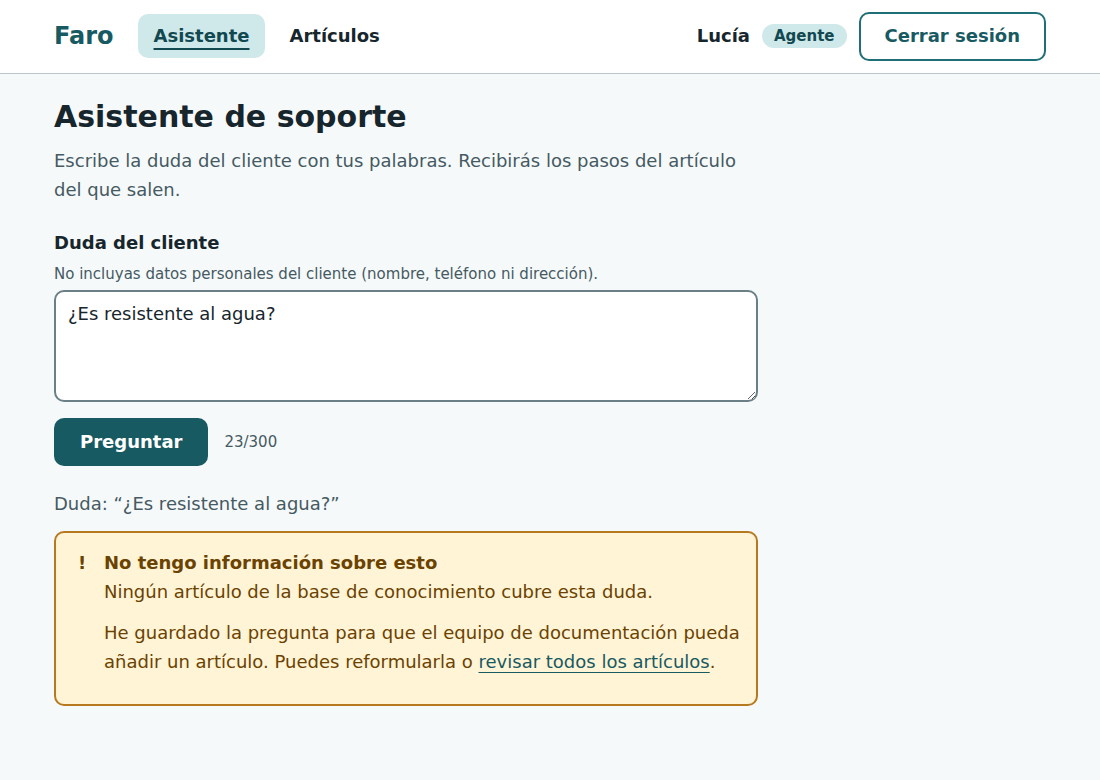
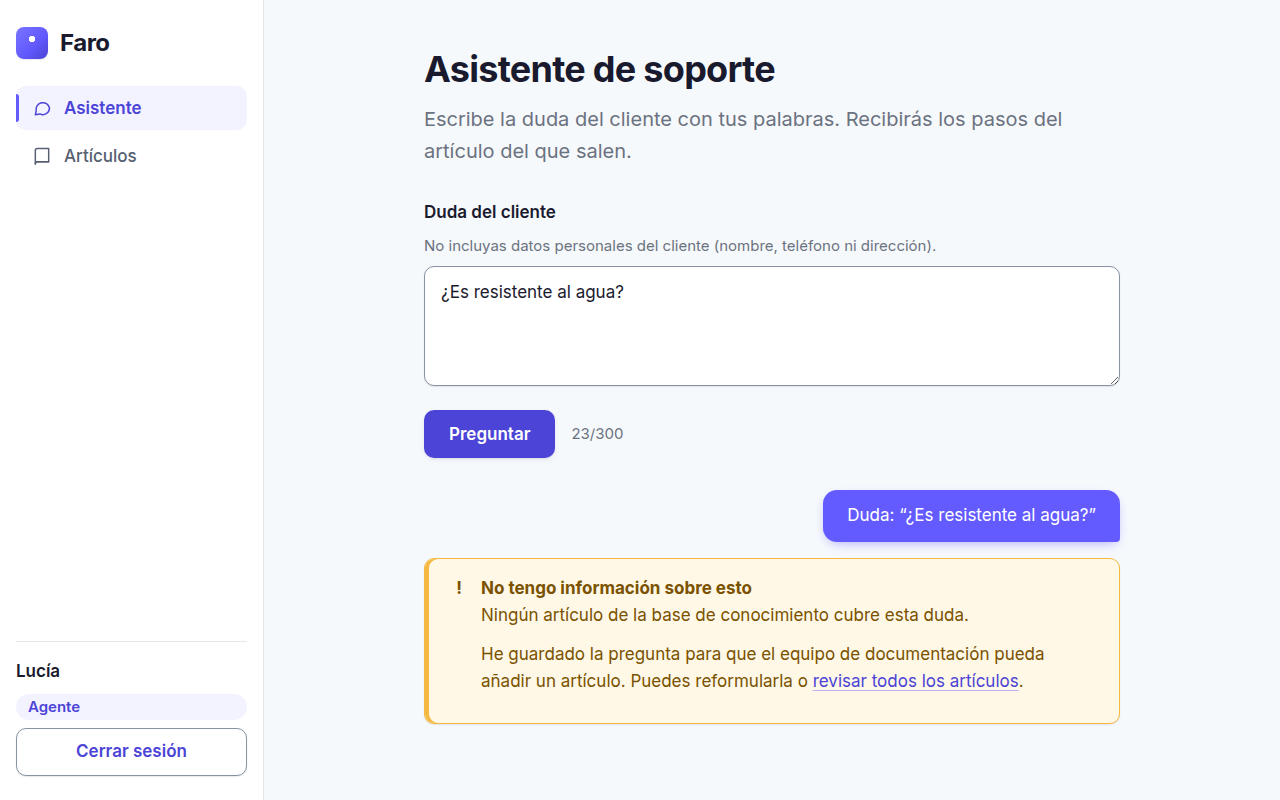
Documentación del rediseño y capturas nuevas
Claude-Session: https://claude.ai/code/session_014X62RLLdPC6ewQNj8BPKLC

diff --git a/VALIDACION.md b/VALIDACION.md
@@ -149,6 +149,30 @@ de accesibilidad.
 
 ---
 
+### 1.x Rediseño visual (estilo Stripe)
+
+Cambio **solo visual**: ninguna lógica, consulta ni permiso se ha tocado. Verificado en navegador real (Chromium) con axe
+**incluido el contraste** (WCAG 2.2 AA): **0 violaciones en 12 vistas** (escritorio y móvil), **0 errores de CSP** y 0 px de
+desbordamiento horizontal; los 402 tests, typecheck, lint y build siguen en verde.
+
+Desviaciones deliberadas de la paleta pedida, por accesibilidad (medidas, no a ojo):
+
+| Pedido | Problema | Qué se hace |
+|---|---|---|
+| Éxito `#00D4AA` y error `#FF5A5A` como color | Sobre blanco dan 1,9:1 y 3,1:1 (AA exige 4,5:1 para texto) | Se usan como **acento** (franja, borde); el texto lleva `#0B6B57` / `#B42318` (5,9:1 / 5,8:1) |
+| Bordes `#E5E7EB` | 1,2:1: un campo de formulario casi no se vería (WCAG 1.4.11 pide 3:1) | Tarjetas y separadores usan `#E5E7EB`; **los campos y botones secundarios usan `#8792A2`** (3,2:1) |
+| Violeta `#635BFF` como texto/enlace | 4,7:1 sobre blanco, 4,45:1 sobre `#F6F9FC` (justo bajo AA) | Botones y círculos lo usan con texto blanco (4,7:1); el **texto** violeta usa `#4B44D6` (6,8:1) |
+| Texto secundario `#6B7280` sobre el gris de la burbuja de respuesta | 4,3:1 | Dentro de la respuesta se usa `#566070` (5,6:1) |
+| Fuente «Inter de Google Fonts» | La CSP del proyecto (`style-src`/`font-src 'self'`) la bloquearía | Inter **autoalojada** con `@fontsource-variable/inter` |
+
+Cambios de marcado inevitables para pedir lo que se pidió (sin lógica): navegación lateral con iconos SVG decorativos
+(`aria-hidden`), etiquetas de categoría con color estable por categoría (`CategoryTag`, con test) y `role="list"` en
+las listas de pasos (los círculos numerados usan contadores CSS y `list-style: none`, que algunos lectores de pantalla
+interpretan como «no es una lista»). En móvil la barra lateral pasa a cabecera superior.
+
+⏳ **Pendiente**: ver el resultado en la app real (las capturas de `docs/screenshots` se generan con una versión con
+datos simulados, como las anteriores) y probar con un lector de pantalla.
+
 ## 2. Pruebas de fiabilidad
 
 > ### ⚠ Corrección importante (leer primero)

diff --git a/README.md b/README.md
@@ -171,7 +171,8 @@ Las pruebas y sus resultados están en [`VALIDACION.md`](VALIDACION.md).
 | **`save_article` transaccional** | Crear/editar toca dos tablas; así no queda nada a medias si algo falla |
 | **Funciones `SECURITY INVOKER`** | RLS sigue aplicando en la búsqueda y el guardado; evita `SECURITY DEFINER` y sus riesgos |
 | **Comprobar filas afectadas** al borrar/actualizar | RLS bloquea con «0 filas», no con un error: sin comprobarlo se mostraría «borrado» sin serlo |
-| **CSS puro con tokens** + CSS Modules | Sistema de diseño explícito y sin dependencias; contrastes WCAG AA medidos |
+| **CSS puro con tokens** + CSS Modules | Sistema de diseño explícito y sin dependencias; contrastes WCAG AA medidos. Estilo limpio inspirado en Stripe (fondo `#F6F9FC`, acento violeta `#635BFF`) |
+| **Inter autoalojada** (`@fontsource-variable/inter`) | La CSP solo permite fuentes del propio dominio, así que no se carga desde Google Fonts: la fuente va en el bundle (y no se envía la IP del usuario a un tercero) |
 | **Tests con Postgres real (PGlite)** | Verifican RLS y SQL de verdad, no con simulaciones |
 | **Conjunto de test retenido** | Para saber si una mejora generaliza o solo memoriza el conjunto de desarrollo |
 
